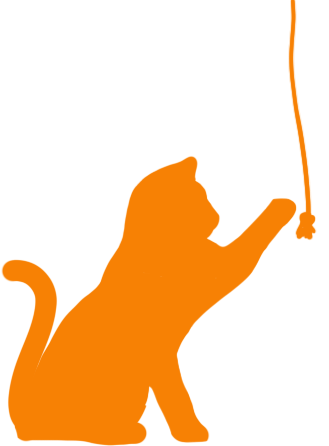
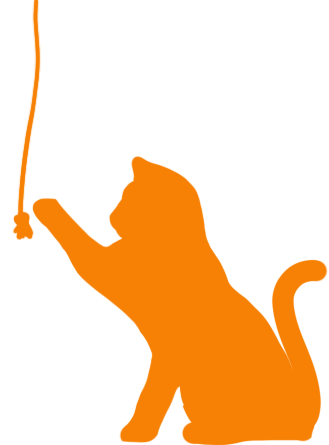
Home-menu-cat mobile version

diff --git a/css/style.css b/css/style.css
@@ -683,29 +683,30 @@ h2 {
 
 /* HOME home-MENU */
 .home-cat {
-    width: 329px;
+    width: 343px;
     height: 446px;
     padding: 89px 0px 0px 167px;
-    margin-top: 191px;
     margin-bottom: 50px;
     background-image: url(./img/home/cat-play.png);
     background-repeat: no-repeat;
+    padding-top: 204px;
+    padding-left: 4px;
+    background-position: right;
+    margin-top: 40px;
 }
 
 .home-menu {
     position: relative;
-    width: 280px;
-    height: 280px;
+    width: 60px;
+    height: 60px;
     padding: 0;
     display: flex;
-    justify-content: center;
-    align-items: center;
     transform: rotate(90deg);
 }
 
 .home-menu li {
     position: absolute;
-    left: 0px;
+    left: -110px;
     list-style: none;
     transition: 0.5s;
     transition-delay: calc(0.1s * var(--i));
@@ -779,8 +780,8 @@ h2 {
     opacity: 0;
     transition: opacity 0.3s, visibility 0.3s;
     rotate: calc((180deg / -7 * var(--i)) - 90deg);
-    transform: translate(-100px, -3px);
-    margin: -55px -36px;
+    transform: translate(68px, -4px);
+    margin: -55px -69px;
 }
 
 .home-menu li:hover .tooltip {
